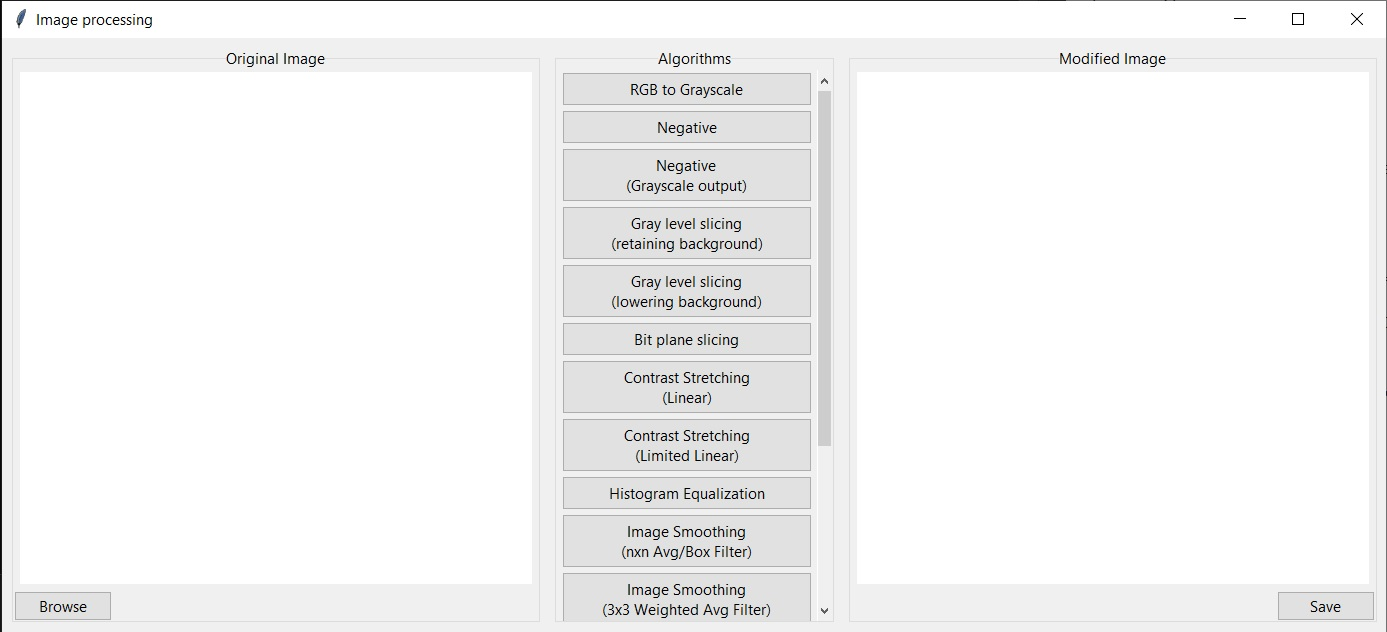
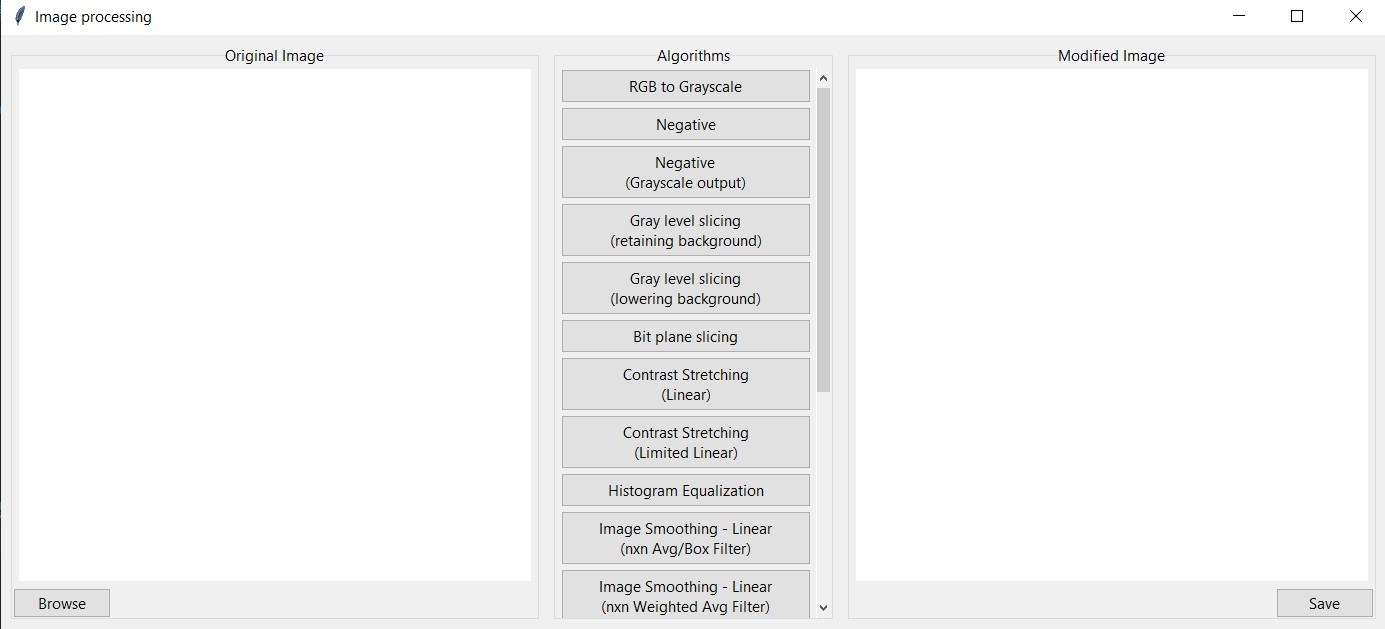
Added median filter and canny edge detector

diff --git a/gui.py b/gui.py
@@ -3,11 +3,11 @@ import os
 from tkinter import *
 from tkinter import filedialog, ttk
 import cv2
+import numpy as np
+import scipy.signal
 from matplotlib import image as mpimg
 from matplotlib import pyplot as plt
-import numpy as np
 from PIL import Image, ImageTk
-import scipy.signal
 
 # np.set_printoptions(threshold=sys.maxsize)
 
@@ -281,7 +281,7 @@ def histogram_eq():
     plt.show()
 
 
-def correlate(kernel):
+def custom_correlate(kernel):
     image = cv2.imread(ip_file)
     # filtered_image = image
     # for i in range(image.shape[-1]):
@@ -299,21 +299,75 @@ def box_filter():
     user_arg = int(user_arg)
     kernel = np.ones([user_arg, user_arg], dtype=int)
     kernel = kernel / (user_arg ** 2)
-    correlate(kernel)
+    # print(kernel)
+    # print(sum(map(sum, kernel)))
+    custom_correlate(kernel)
 
 
 def wt_avg_filter():
-    kernel = (
+    global user_arg
+    open_popup_input("Enter n for (nxn) filter")
+    user_arg = int(user_arg)
+    seed = kernel = (
         np.array(
             [
-                [1, 2, 1],
-                [2, 4, 2],
-                [1, 2, 1],
+                [1, 1],
+                [1, 1],
             ]
         )
-        * (1 / 16)
+        * (1 / 4)
     )
-    correlate(kernel)
+    for _ in range(user_arg - 2):
+        kernel = scipy.signal.correlate2d(kernel, seed)
+    # print(kernel)
+    # print(sum(map(sum, kernel)))
+    custom_correlate(kernel)
+
+
+def median_filter():
+    global user_arg
+    open_popup_input("Enter n for (nxn) filter")
+    msize = int(user_arg)
+    img = output = cv2.imread(ip_file, 0)
+    h, w = img.shape
+    img = np.pad(img, msize // 2, mode="symmetric")
+    center = msize ** 2 // 2
+
+    for i in range(h):
+        for j in range(w):
+            temp = img[i : msize + i, j : msize + j].flatten()
+            temp.sort()
+            output[i][j] = temp[center]
+    draw_after_canvas(output)
+
+
+def wt_median_filter():
+    img = output = cv2.imread(ip_file, 0)
+    m, n = img.shape
+
+    for i in range(1, m - 1):
+        for j in range(1, n - 1):
+            temp = [
+                img[i - 1, j - 1],
+                img[i - 1, j],
+                img[i - 1, j],
+                img[i - 1, j + 1],
+                img[i, j - 1],
+                img[i, j - 1],
+                img[i, j],
+                img[i, j],
+                img[i, j],
+                img[i, j + 1],
+                img[i, j + 1],
+                img[i + 1, j - 1],
+                img[i + 1, j],
+                img[i + 1, j],
+                img[i + 1, j + 1],
+            ]
+
+            temp.sort()
+            output[i, j] = temp[7]
+    draw_after_canvas(output)
 
 
 def find_gradient(hx, hy):
@@ -327,20 +381,54 @@ def find_gradient(hx, hy):
 
 
 def robert_op():
-    hx = np.array([[1, 0], [0, -1]])
-    hy = np.array([[0, -1], [1, 0]])
+    hx = np.array(
+        [
+            [1, 0],
+            [0, -1],
+        ]
+    )
+    hy = np.array(
+        [
+            [0, -1],
+            [1, 0],
+        ]
+    )
     find_gradient(hx, hy)
 
 
 def prewitt_op():
-    hx = np.array([[1, 1, 1], [0, 0, 0], [-1, -1, -1]])
-    hy = np.array([[1, 0, -1], [1, 0, -1], [1, 0, -1]])
+    hx = np.array(
+        [
+            [1, 1, 1],
+            [0, 0, 0],
+            [-1, -1, -1],
+        ]
+    )
+    hy = np.array(
+        [
+            [1, 0, -1],
+            [1, 0, -1],
+            [1, 0, -1],
+        ]
+    )
     find_gradient(hx, hy)
 
 
 def sobel_op():
-    hx = np.array([[1, 2, 1], [0, 0, 0], [-1, -2, -1]])
-    hy = np.array([[1, 0, -1], [2, 0, -2], [1, 0, -1]])
+    hx = np.array(
+        [
+            [1, 2, 1],
+            [0, 0, 0],
+            [-1, -2, -1],
+        ]
+    )
+    hy = np.array(
+        [
+            [1, 0, -1],
+            [2, 0, -2],
+            [1, 0, -1],
+        ]
+    )
     find_gradient(hx, hy)
 
 
@@ -354,6 +442,101 @@ def laplacian_op():
     laplace = scipy.signal.correlate2d(image, kernel, mode="same", boundary="symm")
     # sharpened_img = np.add(image, laplace)
     draw_after_canvas(laplace)
+
+
+def canny():  # sourcery no-metrics
+    sigma = 1
+    kernel_size = 5
+    weak_pixel = 75
+    strong_pixel = 255
+    lowthreshold = 0.05
+    highthreshold = 0.15
+
+    img = cv2.imread(ip_file, 0)
+    M, N = img.shape
+
+    # 1) Noise reduction
+    size = kernel_size // 2
+    x, y = np.mgrid[-size : size + 1, -size : size + 1]
+    normal = 1 / (2.0 * np.pi * sigma ** 2)
+    kernel = np.exp(-((x ** 2 + y ** 2) / (2.0 * sigma ** 2))) * normal
+    img_smoothed = scipy.signal.convolve2d(img, kernel, mode="same", boundary="symm")
+
+    # 2) Gradient calc (sobel)
+    hx = np.array([[-1, 0, 1], [-2, 0, 2], [-1, 0, 1]])
+    hy = np.array([[1, 2, 1], [0, 0, 0], [-1, -2, -1]])
+
+    pdx = scipy.signal.convolve2d(img_smoothed, hx, mode="same", boundary="symm")
+    pdy = scipy.signal.convolve2d(img_smoothed, hy, mode="same", boundary="symm")
+
+    gradient = np.sqrt(pdx ** 2 + pdy ** 2)
+    gradient = gradient / gradient.max() * 255
+    theta = np.arctan2(pdy, pdx)
+
+    # 3) Non Max supression
+    nonmax = np.zeros((M, N), dtype=np.int32)
+    angle = theta * 180.0 / np.pi
+    angle[angle < 0] += 180
+
+    for i in range(1, M - 1):
+        for j in range(1, N - 1):
+            q = 255
+            r = 255
+
+            # angle 0
+            if (0 <= angle[i, j] < 22.5) or (157.5 <= angle[i, j] <= 180):
+                q = gradient[i, j + 1]
+                r = gradient[i, j - 1]
+            # angle 45
+            elif 22.5 <= angle[i, j] < 67.5:
+                q = gradient[i + 1, j - 1]
+                r = gradient[i - 1, j + 1]
+            # angle 90
+            elif 67.5 <= angle[i, j] < 112.5:
+                q = gradient[i + 1, j]
+                r = gradient[i - 1, j]
+            # angle 135
+            elif 112.5 <= angle[i, j] < 157.5:
+                q = gradient[i - 1, j - 1]
+                r = gradient[i + 1, j + 1]
+
+            if (gradient[i, j] >= q) and (gradient[i, j] >= r):
+                nonmax[i, j] = gradient[i, j]
+            else:
+                nonmax[i, j] = 0
+
+    # 4) Double threshold
+    highThreshold = nonmax.max() * highthreshold
+    lowThreshold = highThreshold * lowthreshold
+
+    thresh = np.zeros((M, N), dtype=np.int32)
+
+    strong_i, strong_j = np.where(nonmax >= highThreshold)
+    weak_i, weak_j = np.where((nonmax <= highThreshold) & (nonmax >= lowThreshold))
+
+    thresh[strong_i, strong_j] = strong_pixel
+    thresh[weak_i, weak_j] = weak_pixel
+
+    # 5) Hysteresis
+    for i in range(1, M - 1):
+        for j in range(1, N - 1):
+            if thresh[i, j] == weak_pixel:
+
+                if (
+                    (thresh[i + 1, j - 1] == strong_pixel)
+                    or (thresh[i + 1, j] == strong_pixel)
+                    or (thresh[i + 1, j + 1] == strong_pixel)
+                    or (thresh[i, j - 1] == strong_pixel)
+                    or (thresh[i, j + 1] == strong_pixel)
+                    or (thresh[i - 1, j - 1] == strong_pixel)
+                    or (thresh[i - 1, j] == strong_pixel)
+                    or (thresh[i - 1, j + 1] == strong_pixel)
+                ):
+                    thresh[i, j] = strong_pixel
+                else:
+                    thresh[i, j] = 0
+
+    draw_after_canvas(thresh)
 
 
 # algorithm btns
@@ -419,59 +602,65 @@ ttk.Button(
 
 ttk.Button(
     scrollable_algo_frame,
-    text="Image Smoothing\n(nxn Avg/Box Filter)",
+    text="Image Smoothing - Linear\n(nxn Avg/Box Filter)",
     width=30,
     command=box_filter,
 ).pack(pady=2, ipady=2)
 
 ttk.Button(
     scrollable_algo_frame,
-    text="Image Smoothing\n(3x3 Weighted Avg Filter)",
+    text="Image Smoothing - Linear\n(nxn Weighted Avg Filter)",
     width=30,
     command=wt_avg_filter,
 ).pack(pady=2, ipady=2)
 
-# ttk.Button(
-#     scrollable_algo_frame,
-#     text="Image Smoothing\n(3x3 Median Filter)",
-#     width=30,
-#     command=,
-# ).pack(pady=2, ipady=2)
-
-# ttk.Button(
-#     scrollable_algo_frame,
-#     text="Image Smoothing\n(3x3 Weighted Median Filter)",
-#     width=30,
-#     command=,
-# ).pack(pady=2, ipady=2)
+ttk.Button(
+    scrollable_algo_frame,
+    text="Image Smoothing - Non Linear\n(nxn Median Filter)",
+    width=30,
+    command=median_filter,
+).pack(pady=2, ipady=2)
 
 ttk.Button(
     scrollable_algo_frame,
-    text="Image Sharpening\n(Gradient - Roberts operator)",
+    text="Image Smoothing - Non Linear\n(3x3 Weighted Median Filter)",
+    width=30,
+    command=wt_median_filter,
+).pack(pady=2, ipady=2)
+
+ttk.Button(
+    scrollable_algo_frame,
+    text="Image Sharpening - Gradient\n(Roberts operator)",
     width=30,
     command=robert_op,
 ).pack(pady=2, ipady=2)
 
 ttk.Button(
     scrollable_algo_frame,
-    text="Image Sharpening\n(Gradient - Prewitt operator)",
+    text="Image Sharpening - Gradient\n(Prewitt operator)",
     width=30,
     command=prewitt_op,
 ).pack(pady=2, ipady=2)
 
 ttk.Button(
     scrollable_algo_frame,
-    text="Image Sharpening\n(Gradient - Sobel operator)",
+    text="Image Sharpening - Gradient\n(Sobel operator)",
     width=30,
     command=sobel_op,
 ).pack(pady=2, ipady=2)
 
 ttk.Button(
     scrollable_algo_frame,
-    text="Image Sharpening\n(Laplacian operator)",
+    text="Image Sharpening - Laplacian",
     width=30,
     command=laplacian_op,
 ).pack(pady=2, ipady=2)
 
+ttk.Button(
+    scrollable_algo_frame,
+    text="Canny Edge Detection",
+    width=30,
+    command=canny,
+).pack(pady=2, ipady=2)
 
 root.mainloop()

diff --git a/README.md b/README.md
@@ -22,9 +22,13 @@ GUI created using Tkinter in python.
     -   Linear
         -   Average/Box filter
         -   Weighted Average filter
+    -   Non Linear
+        -   Median filter
+        -   Weighted Median filter
 -   Image sharpening
     -   Gradient operator
         -   Roberts operator
         -   Prewitt operator
         -   Sobel operator
     -   Laplacian operator
+-   Canny edge detection
